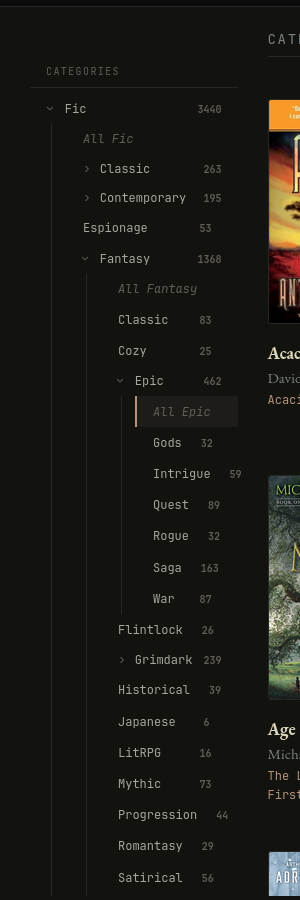
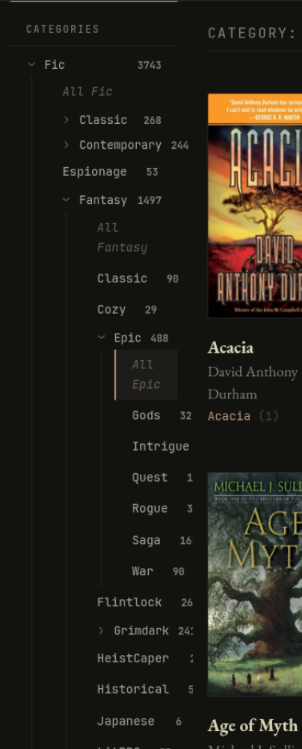
0.6.41: Categories beneath Wings, the palette off the ORM, the honest decorator count
The sidebar re-balances per the 2026-09-12 decision: Wings lead, the
compact Categories index sits beneath them (template order pinned by a
nav-head regression test; the compact register ships through the
canonical sheet). palette.py's authors/series/tags reads move to cquarry
get_entities(), the Carrel modules' last ORM reads, with a lockstep test
pinning the index to get_entities' output. single_user.py's 154/10
decorator claim is corrected to the measured 39 upstream across 5 (42
across 10 at smallscope HEAD); the roadmap's claim that this shipped in
230c42bc was false. Screenshots regenerated for the new sidebar order.

diff --git a/cps/static/css/kanagawa-dragon.css b/cps/static/css/kanagawa-dragon.css
@@ -227,7 +227,9 @@ hr { border-color: var(--rule); }
 .navigation li.active a .glyphicon { color: var(--kngw-orange); }
 
 /* Wing counts sit right, quiet, and never wrap. gray3: counts carry
-   information, and black6 fails AA on the page background (2026-09-02). */
+   information, and black6 fails AA on the page background (2026-09-02).
+   One rule covers every sidebar count: the tree lives inside
+   nav.navigation, so its badges need no second copy. */
 .navigation .badge {
     margin-left: auto;
     background: transparent;
@@ -237,11 +239,14 @@ hr { border-color: var(--rule); }
     padding: 0;
     white-space: nowrap;
 }
-.navigation li a:hover .badge { color: var(--kngw-gray3); }
 
 /* ------------------------------------------------------------------ */
 /* Category tree: the dot taxonomy as a collapsible ledger            */
 /* ------------------------------------------------------------------ */
+
+/* The section sits beneath Wings (decision 2026-09-12) and reads as a
+   secondary index: a half-step down in size and rhythm from the wing rows
+   above it, so the curated structure keeps its primacy. */
 
 /* <details>/<summary> gives collapse with no JavaScript. The marker is
    replaced with a typographic caret so the row stays in the mono register. */
@@ -249,12 +254,12 @@ hr { border-color: var(--rule); }
     display: flex;
     align-items: baseline;
     gap: 9px;
-    padding: 5px 16px 5px 16px;
+    padding: 3px 16px 3px 16px;
     cursor: pointer;
     list-style: none;
     color: var(--kngw-gray);
     font-family: var(--mono);
-    font-size: 12px;
+    font-size: 11.5px;
     border-left: 2px solid transparent;
 }
 .cat-node > details > summary::-webkit-details-marker { display: none; }
@@ -280,10 +285,10 @@ hr { border-color: var(--rule); }
     display: flex;
     align-items: baseline;
     gap: 9px;
-    padding: 4px 16px 4px 6px;
+    padding: 2px 16px 2px 6px;
     color: var(--kngw-gray3);
     font-family: var(--mono);
-    font-size: 11.5px;
+    font-size: 11px;
     border-left: 2px solid transparent;
 }
 .cat-leaf a:hover { color: var(--kngw-fuji-white); background: var(--kngw-black2); }
@@ -296,15 +301,6 @@ hr { border-color: var(--rule); }
 /* "All Fic.Fantasy": the roll-up row that includes every descendant */
 .cat-all { font-style: italic; color: var(--kngw-black6); }
 .cat-leaf a:hover .cat-all { color: var(--kngw-orange); }
-
-.cat-node .badge, .cat-leaf .badge {
-    margin-left: auto;
-    background: transparent;
-    color: var(--kngw-gray3); /* counts carry information (AA) */
-    font-family: var(--mono);
-    font-size: 10px;
-    padding: 0;
-}
 
 /* ------------------------------------------------------------------ */
 /* The book grid: a ledger of covers                                  */

diff --git a/cps/templates/layout.html b/cps/templates/layout.html
@@ -137,24 +137,25 @@
           <nav class="navigation">
             <ul class="list-unstyled" id="scnd-nav" intent in-standard-append="nav.navigation" in-mobile-after="#main-nav" in-mobile-class="nav navbar-nav">
               {# Carrel (spec 4.4): the Browse ledger is gone. Wings are the
-                 curated structure and the only permanent furniture; every
-                 other axis (authors, series, categories, publishers, formats,
-                 read/unread) is a Ctrl-K palette destination instead, and the
-                 brand link returns to the whole library. The `sidebar` context
+                 curated structure and lead the sidebar; the compact Categories
+                 index sits beneath them (decision 2026-09-12), and every
+                 other axis (authors, series, publishers, formats, read/unread)
+                 is a Ctrl-K palette destination instead. The `sidebar` context
                  variable is still populated upstream if this is ever restored. #}
-              {# Carrel: category browser over the dot taxonomy (spec 4.4).
-                 Counts and membership roll descendants up, so Fic.Fantasy
-                 includes Fic.Fantasy.Epic. #}
-              {% if category_tree %}
-                <li class="nav-head hidden-xs">{{_('Categories')}}</li>
-                {% for item in category_tree %}{{ cat.node(item, 0) }}{% endfor %}
-              {% endif %}
               {# smallscope: shelves UI removed; Wings live here (kanagawa spec 8) #}
               {% if current_user.is_authenticated and wings_list %}
                 <li class="nav-head hidden-xs">{{_('Wings')}}</li>
                 {% for wing in wings_list %}
                   <li {% if page == 'wings' and wing_active is defined and wing_active == wing.name %}class="active"{% endif %}><a href="{{ url_for('wings.show_wing', name=wing.name) }}"><span class="glyphicon glyphicon-tower"></span> {{ wing.name|shortentitle(40) }} <span class="badge badge-sm">{{ wing.count }}</span></a></li>
                 {% endfor %}
+              {% endif %}
+              {# Carrel: category browser over the dot taxonomy (spec 4.4),
+                 beneath Wings in the compact register. Counts and membership
+                 roll descendants up, so Fic.Fantasy includes
+                 Fic.Fantasy.Epic. #}
+              {% if category_tree %}
+                <li class="nav-head hidden-xs">{{_('Categories')}}</li>
+                {% for item in category_tree %}{{ cat.node(item, 0) }}{% endfor %}
               {% endif %}
               {# Carrel: Calibre saved searches as browse sections (cquarry 1.1
                  interpolation — same engine as the search bar and Wings). #}

diff --git a/cps/palette.py b/cps/palette.py
@@ -20,8 +20,8 @@ import json
 
 from flask import Blueprint, Response
 
-from . import calibre_db, db, logger
-from .library_cache import LibraryCache, library_mtime
+from . import logger
+from .library_cache import LibraryCache, library_mtime, quarry
 from .usermanagement import login_required_if_no_ano
 
 palette = Blueprint("palette", __name__)
@@ -62,18 +62,25 @@ def _entries():
     for name in _wing_ids():
         rows.append({"t": name, "g": "wing", "h": "/wings/%s" % quote(name)})
 
-    session = calibre_db.session
-    for author in session.query(db.Authors).all():
+    # Entities come from cquarry's get_entities() (2026-09-13, the last ORM
+    # reads in the fork's Carrel modules): one query per kind, name-sorted,
+    # the same source the about-page counts and the OPDS letter feeds use.
+    quarry_db = quarry()
+    for author in quarry_db.get_entities("authors"):
         rows.append(
             {
-                "t": author.name.replace("|", ","),
+                "t": author["name"].replace("|", ","),
                 "g": "author",
-                "h": "/author/stored/%d" % author.id,
+                "h": "/author/stored/%d" % author["id"],
             }
         )
-    for series in session.query(db.Series).all():
+    for series in quarry_db.get_entities("series"):
         rows.append(
-            {"t": series.name, "g": "series", "h": "/series/stored/%d" % series.id}
+            {
+                "t": series["name"],
+                "g": "series",
+                "h": "/series/stored/%d" % series["id"],
+            }
         )
     # Categories jump to Carrel's roll-up browser rather than stock
     # calibre-web's /category/stored/<id>: the sidebar tree already goes there,
@@ -84,9 +91,13 @@ def _entries():
     # intermediate nodes (Fic.Fantasy) stay reachable through the tree and not
     # through Ctrl-K; indexing them too would grow the payload for a set of
     # destinations that are one click away in the sidebar.
-    for tag in session.query(db.Tags).all():
+    for tag in quarry_db.get_entities("tags"):
         rows.append(
-            {"t": tag.name, "g": "category", "h": "/categories/%s" % quote(tag.name)}
+            {
+                "t": tag["name"],
+                "g": "category",
+                "h": "/categories/%s" % quote(tag["name"]),
+            }
         )
 
     return rows

diff --git a/tests/test_smallscope.py b/tests/test_smallscope.py
@@ -873,7 +873,42 @@ class SmallscopeTestCase(_ClientCase):
         self.assertEqual(self.client.get("/categories/Fic").status_code, 200)
         self.assertEqual(self.client.get("/categories/Nope.Nope").status_code, 404)
 
+    def test_categories_render_beneath_wings(self):
+        # Decision 2026-09-12: Wings lead the sidebar as the curated
+        # structure; the compact Categories index sits beneath them, above
+        # Saved Searches. Pinned against the nav-head markers, not bare
+        # strings, so prose elsewhere on the page cannot satisfy it.
+        page = self.client.get("/").get_data(as_text=True)
+        wings = page.index('<li class="nav-head hidden-xs">Wings</li>')
+        cats = page.index('<li class="nav-head hidden-xs">Categories</li>')
+        saved = page.index('<li class="nav-head hidden-xs">Saved Searches</li>')
+        self.assertLess(wings, cats)
+        self.assertLess(cats, saved)
+
     # --- command palette (spec 4.4) ----------------------------------------
+
+    def test_palette_entities_are_cquarry_served(self):
+        # The index is built from cquarry's get_entities() (2026-09-13), not
+        # the ORM: the same source as the about-page counts, which is what
+        # makes the sidebar's "served from the cquarry category counts" true.
+        # Lockstep with get_entities is the behavioral pin; if an ORM read
+        # creeps back with divergent names, this fails.
+        import json
+        import re
+
+        from cps.library_cache import quarry
+
+        body = self.client.get("/palette-data.js").get_data(as_text=True)
+        rows = json.loads(re.sub(r"^window\.PALETTE=|;$", "", body.strip()))
+        q = quarry()
+        expected = {
+            "author": {e["name"].replace("|", ",") for e in q.get_entities("authors")},
+            "series": {e["name"] for e in q.get_entities("series")},
+            "category": {e["name"] for e in q.get_entities("tags")},
+        }
+        for kind, names in expected.items():
+            got = {r["t"] for r in rows if r["g"] == kind}
+            self.assertEqual(got, names, kind)
 
     def test_palette_index_covers_every_navigable_kind(self):
         import json

diff --git a/cps/single_user.py b/cps/single_user.py
@@ -7,7 +7,8 @@
 # credential-management paths answer 404.
 #
 # The owner is authenticated on every request instead of stripping flask-login.
-# Upstream has 154 @login_required decorators across 10 modules; rewriting them
+# Upstream carries 39 @login_required decorators across 5 modules (42 across
+# 10 at smallscope HEAD, counting the fork's own additions); rewriting them
 # would turn every rebase onto a new upstream tag into a merge conflict, which
 # spec section 3 explicitly protects against. Leaving them in place and always
 # arriving authenticated makes them pass trivially.

diff --git a/cps/constants.py b/cps/constants.py
@@ -175,7 +175,7 @@ BookMeta = namedtuple('BookMeta', 'file_path, extension, title, author, cover, d
                                   'series_id, languages, publisher, pubdate, identifiers')
 
 # python build process likes to have x.y.zbw -> b for beta and w a counting number
-STABLE_VERSION =  '0.6.40'
+STABLE_VERSION =  '0.6.41'
 
 NIGHTLY_VERSION = dict()
 NIGHTLY_VERSION[0] = '$Format:%H$'

diff --git a/patchnotes.md b/patchnotes.md
@@ -1,4 +1,30 @@
 # Patchnotes (Carrel-calibre-web)
+## Categories beneath Wings, the palette off the ORM, the honest decorator count (2026-09-13, 0.6.41)
+
+The fork half of Carrel's v0.9.9 lane (decision 2026-09-12: a compact
+Categories section beneath Wings).
+
+- **The sidebar re-balances: Categories now renders beneath Wings.**
+  Wings lead as the curated structure; the compact Categories index sits
+  between them and Saved Searches. The compact register is the theme's
+  (tighter rows, a half-step down in type), shipped through the canonical
+  sheet and `just sync-theme`; a regression test pins the order against
+  the nav-head markers.
+- **palette.py's entity reads go through cquarry get_entities().** The
+  authors/series/tags queries were the fork's Carrel modules' last ORM
+  reads; the Ctrl-K index now shares one source with the about-page
+  counts and the OPDS feeds. Same payload set, name-ordered instead of
+  id-ordered; every palette href still lands on its own target (the
+  existing tests hold, and a new lockstep test pins the index to
+  get_entities' output).
+- **single_user.py's decorator count is corrected.** The header comment
+  claimed upstream carries 154 @login_required decorators across 10
+  modules; measured, it is 39 across 5 upstream modules (42 across 10 at
+  smallscope HEAD counting the fork's own). The roadmap's claim that
+  this fix shipped in 230c42bc was false; it lands here.
+- Screenshots regenerated for the new sidebar order (front page, detail,
+  statistics, category tree). Suite: 73 green.
+
 ## Phase 13 sealing release: eight routes sealed, send/convert dead, the invariants pinned (2026-09-11, 0.6.40)
 
 The fork half of the contract repo's Phase 13 hardening backlog (the
